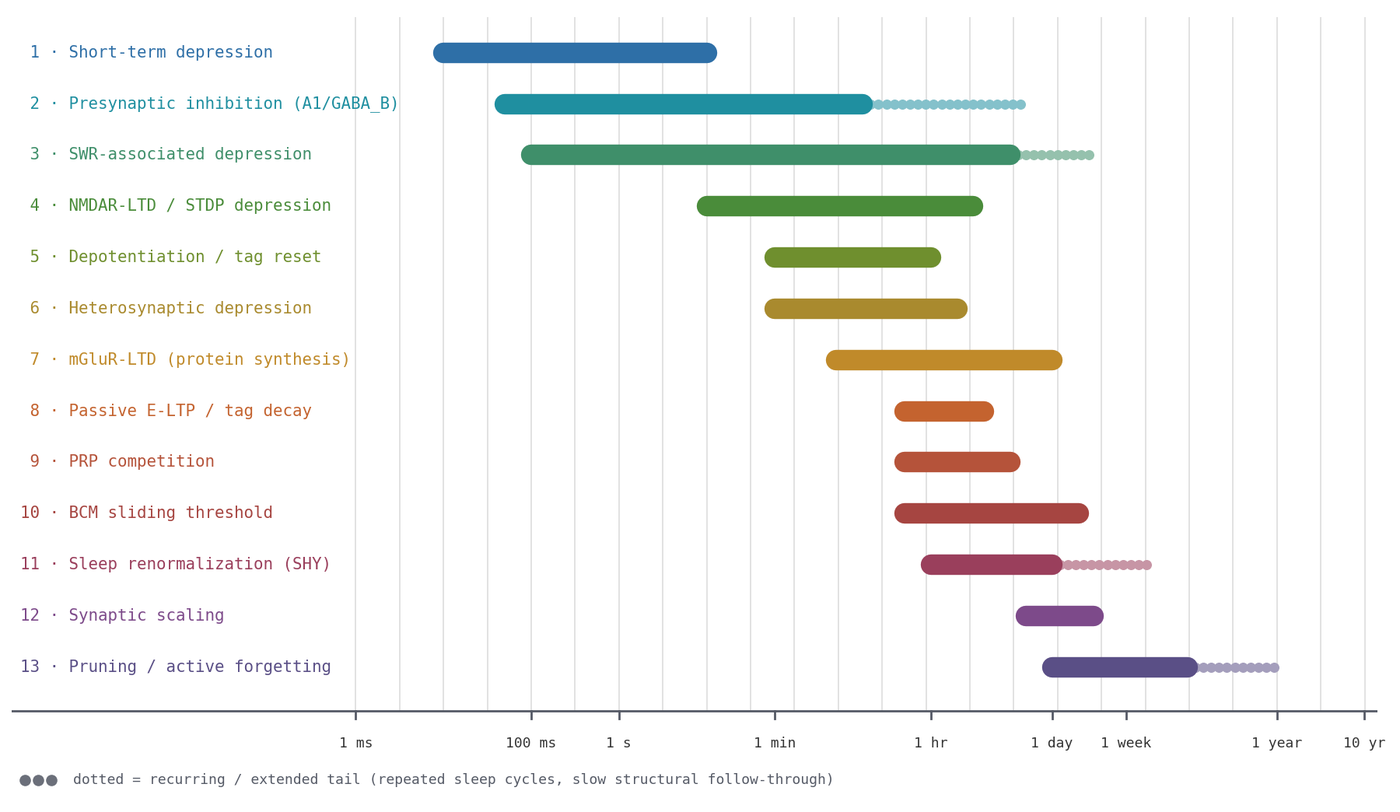
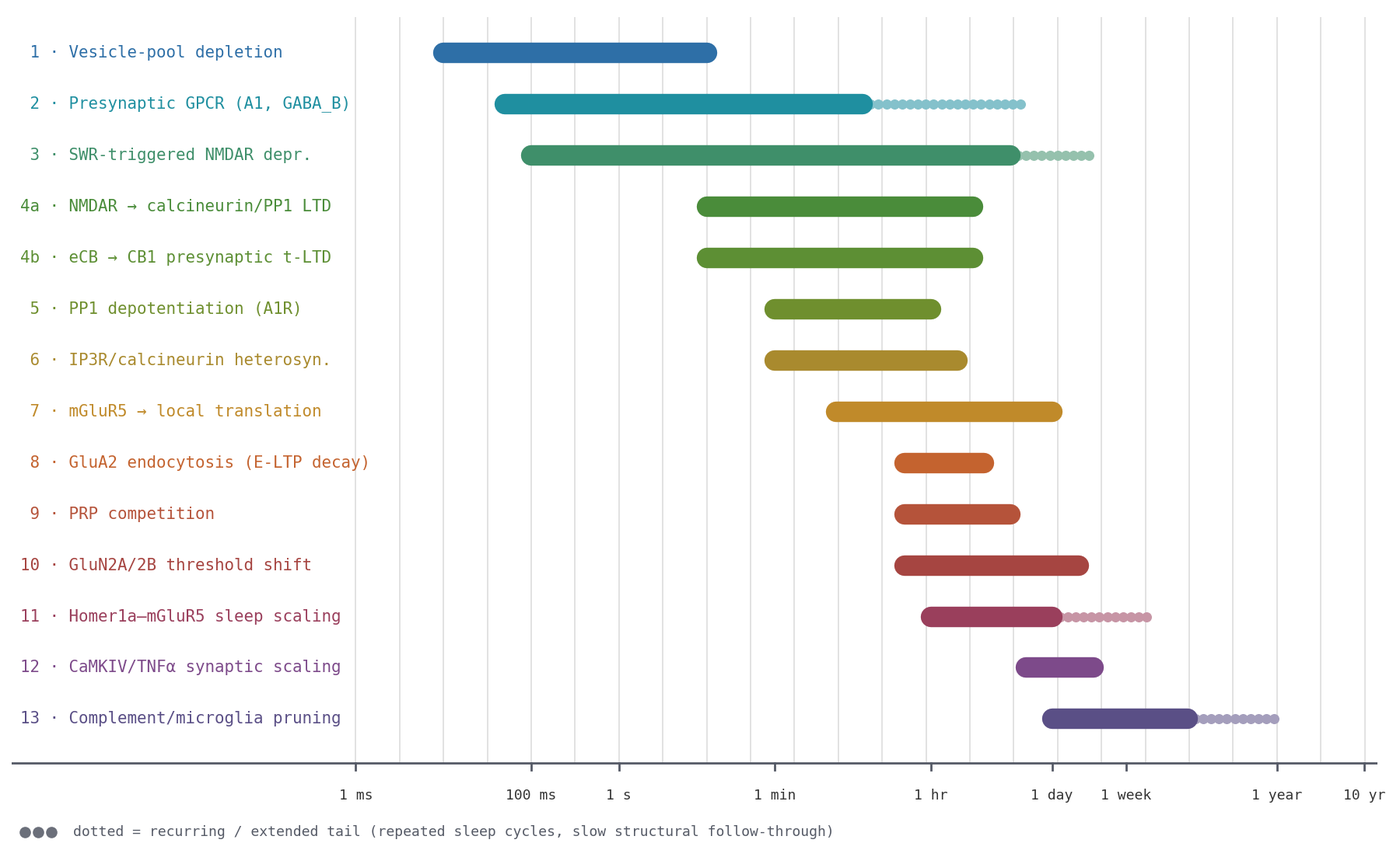
Restructure downscaling doc by molecular pathway
Each entry is now a molecular pathway with sensor, effector and site;
the plasticity rule (Hebbian, STDP, BCM, SHY, homeostasis) is a separate
column. Split NMDAR-LTD/STDP depression into postsynaptic NMDAR->PP1 LTD
(4a) and presynaptic eCB->CB1 t-LTD (4b), noting that presynaptic t-LTD
at mouse CA3->CA1 fades by about the fourth postnatal week. Added
verified refs: Sjostrom 2003, Andrade-Talavera 2016, Huang 1999, Lee
2000, Ibata 2008. Figure relabelled with pathway names and ids.

Changed region(s): [[0.0, 0.0307, 0.9956, 0.9195], [0.0, 0.9502, 0.5911, 0.9808]]

diff --git a/figures/make_downscaling_timescale_axis.py b/figures/make_downscaling_timescale_axis.py
@@ -12,24 +12,26 @@ import numpy as np
 
 MS, S, MIN, HR, DAY, WK, YR = 1e-3, 1.0, 60.0, 3600.0, 86400.0, 604800.0, 3.156e7
 
-# (label, start_s, end_s, tail_end_s or None, colour)
-# Rows are drawn in order of onset (start_s), ties broken by end_s, so the
+# (id, molecular pathway, start_s, end_s, tail_end_s or None, colour)
+# Ids match the sections of hippocampal_downscaling_mechanisms.md. Rows are
+# drawn in order of onset (start_s), ties broken by end_s then id, so the
 # bars form a staircase like figures/timescale_axis.png.
 MECHANISMS = sorted([
-    ("Short-term depression",          10 * MS, 10 * S,  None,     "#2e6fa7"),
-    ("Presynaptic inhibition (A1/GABA_B)", 50 * MS, 10 * MIN, 12 * HR, "#1f8fa0"),
-    ("SWR-associated depression",      100 * MS, 8 * HR, 3 * DAY,  "#3f8f6a"),
-    ("NMDAR-LTD / STDP depression",    10 * S,  3 * HR,  None,     "#4a8c3a"),
-    ("Depotentiation / tag reset",     1 * MIN, 1 * HR,  None,     "#6f8f2e"),
-    ("Heterosynaptic depression",      1 * MIN, 2 * HR,  None,     "#a98a2e"),
-    ("mGluR-LTD (protein synthesis)",  5 * MIN, 1 * DAY, None,     "#c08a2a"),
-    ("Passive E-LTP / tag decay",      30 * MIN, 4 * HR, None,     "#c4632f"),
-    ("PRP competition",                30 * MIN, 8 * HR, None,     "#b5533a"),
-    ("BCM sliding threshold",          30 * MIN, 2 * DAY, None,    "#a64541"),
-    ("Sleep renormalization (SHY)",    1 * HR,  1 * DAY, 2 * WK,   "#9a3f5c"),
-    ("Synaptic scaling",               12 * HR, 3 * DAY, None,     "#7d4a8a"),
-    ("Pruning / active forgetting",    1 * DAY, 5 * WK,  1 * YR,   "#5a4f86"),
-], key=lambda m: (m[1], m[2]))
+    ("1",  "Vesicle-pool depletion",        10 * MS, 10 * S,  None,     "#2e6fa7"),
+    ("2",  "Presynaptic GPCR (A1, GABA_B)", 50 * MS, 10 * MIN, 12 * HR, "#1f8fa0"),
+    ("3",  "SWR-triggered NMDAR depr.",     100 * MS, 8 * HR, 3 * DAY,  "#3f8f6a"),
+    ("4a", "NMDAR → calcineurin/PP1 LTD",   10 * S,  3 * HR,  None,     "#4a8c3a"),
+    ("4b", "eCB → CB1 presynaptic t-LTD",   10 * S,  3 * HR,  None,     "#5d8f34"),
+    ("5",  "PP1 depotentiation (A1R)",      1 * MIN, 1 * HR,  None,     "#6f8f2e"),
+    ("6",  "IP3R/calcineurin heterosyn.",   1 * MIN, 2 * HR,  None,     "#a98a2e"),
+    ("7",  "mGluR5 → local translation",    5 * MIN, 1 * DAY, None,     "#c08a2a"),
+    ("8",  "GluA2 endocytosis (E-LTP decay)", 30 * MIN, 4 * HR, None,   "#c4632f"),
+    ("9",  "PRP competition",               30 * MIN, 8 * HR, None,     "#b5533a"),
+    ("10", "GluN2A/2B threshold shift",     30 * MIN, 2 * DAY, None,    "#a64541"),
+    ("11", "Homer1a–mGluR5 sleep scaling",  1 * HR,  1 * DAY, 2 * WK,   "#9a3f5c"),
+    ("12", "CaMKIV/TNFα synaptic scaling",  12 * HR, 3 * DAY, None,     "#7d4a8a"),
+    ("13", "Complement/microglia pruning",  1 * DAY, 5 * WK,  1 * YR,   "#5a4f86"),
+], key=lambda m: (m[2], m[3], m[0]))
 
 TICKS = [(1 * MS, "1 ms"), (100 * MS, "100 ms"), (1 * S, "1 s"), (1 * MIN, "1 min"),
          (1 * HR, "1 hr"), (1 * DAY, "1 day"), (1 * WK, "1 week"),
@@ -51,14 +53,14 @@ def main(out=Path(__file__).with_name("downscaling_timescale_axis.png")):
     grid = np.arange(-3, np.log10(10 * YR) + 0.01, 0.5)
     ax.vlines(grid, 0.15, n + 0.7, color="#dddddd", lw=1.2, zorder=0)
 
-    for i, (label, a, b, tail, colour) in enumerate(MECHANISMS):
+    for i, (mid, label, a, b, tail, colour) in enumerate(MECHANISMS):
         y = n - i
         ax.plot([np.log10(a), np.log10(b)], [y, y], color=colour, lw=19,
                 solid_capstyle="round", zorder=3)
         if tail:
             xs = np.arange(np.log10(b) + 0.09, np.log10(tail), 0.09)
             ax.scatter(xs, np.full_like(xs, y), s=70, color=lighten(colour), zorder=2)
-        ax.text(label_x, y, f"{i + 1:>2} · {label}", color=colour, fontsize=15,
+        ax.text(label_x, y, f"{mid:>2} · {label}", color=colour, fontsize=15,
                 va="center", ha="left")
 
     ax.axhline(0.15, xmin=0.0, color="#555a66", lw=2)

diff --git a/hippocampal_downscaling_mechanisms.md b/hippocampal_downscaling_mechanisms.md
@@ -9,7 +9,24 @@ entry gives its timescale, its hook in the circuit model (model §2 tag/capture,
 synaptic-area "activity-dependent weight decay", model §2.1 `V_seg`, model §3 replay), and its primary
 literature.
 
-![Thirteen synaptic downscaling mechanisms on the same logarithmic time axis as Fig. 1 of the model document, from 1 ms to 10 years, ordered by onset so the bars form a descending staircase. Short-term depression, presynaptic inhibition and SWR-associated depression start in the millisecond range; Hebbian, heterosynaptic and tag-related depression start at seconds to minutes; BCM metaplasticity, sleep renormalization and synaptic scaling start at tens of minutes to hours; pruning and active forgetting start at days and extend to a year.](figures/downscaling_timescale_axis.png)
+**Levels of description.** Each entry is a *molecular pathway*. Plasticity rules (Hebbian,
+anti-Hebbian, STDP, BCM, homeostatic) are a separate, higher level. They say *which activity
+pattern* changes a weight, not *how*. One rule can be carried out by several pathways: STDP
+depression runs through 4a in some preparations and 4b in others. One pathway can also serve
+several rules: postsynaptic NMDAR → phosphatase signalling (4a) underlies both rate-dependent LTD
+and depotentiation (5). Every entry is therefore described on three levels:
+
+| Level | Question | Examples |
+|---|---|---|
+| Sensor (induction) | What detects the triggering activity or state? | Postsynaptic NMDAR Ca²⁺, group I mGluR → IP3/Ca²⁺ stores, presynaptic CB1 + NMDAR, somatic Ca²⁺ → CaMKIV |
+| Effector (expression) | What physically weakens the synapse? | Calcineurin/PP1 dephosphorylation of GluA1, clathrin-dependent AMPAR endocytosis, local translation of Arc/STEP, lower release probability, spine removal |
+| Rule it implements | Which activity pattern produces it? | Rate-dependent LTD, t-LTD (STDP), heterosynaptic normalization, BCM threshold, firing-rate homeostasis |
+
+Only the sensor and effector levels should be modelled as mechanisms (a dataclass plus a `build_*`
+function, per `CLAUDE.md`). The rule is what a mechanism should *reproduce* when driven with the
+corresponding protocol. It is an acceptance test, not a component.
+
+![Fourteen molecular downscaling pathways on the same logarithmic time axis as Fig. 1 of the model document, from 1 ms to 10 years, ordered by onset so the bars form a descending staircase. Vesicle depletion, presynaptic GPCR inhibition and SWR-triggered NMDAR depression start in the millisecond range; NMDAR/phosphatase LTD, endocannabinoid t-LTD, depotentiation, heterosynaptic and tag-related depression start at seconds to minutes; BCM metaplasticity, sleep renormalization and synaptic scaling start at tens of minutes to hours; pruning and active forgetting start at days and extend to a year.](figures/downscaling_timescale_axis.png)
 
 *Fig. D1. Downscaling mechanisms on the log time axis of model Fig. 1, ordered
 by onset (ties broken by end), as in Fig. 1. A bar's position marks onset and its
@@ -22,32 +39,37 @@ references below, not fitted values. Regenerate with
 bibliographic details of Norimoto 2018, González-Rueda 2018, Oh 2015, Kim & Tsien
 2008, Fonseca 2004, Royer & Paré 2003, Branco 2008, Migues 2016, Wang 2020,
 Li 2017, Sajikumar & Frey 2004 and Miyawaki & Diba 2016 have been checked against
-PubMed/PMC or publisher records (DOIs given). The rest are standard citations that
+PubMed/PMC or publisher records (DOIs given), as have Sjöström 2003, Andrade-Talavera 2016,
+Huang 1999, Lee 2000 and Ibata 2008. The rest are standard citations that
 have not been checked. Per `CLAUDE.md`, a parameter taken from any of these must
 be checked against the source and recorded in `params.py` with its recording
 conditions before use.
 
 ## Summary
 
-| # | Mechanism | Timescale | Spec hook | Class |
-|---|---|---|---|---|
-| 1 | Short-term depression | 10 ms–10 s | STP (S0–S3) | transient, presynaptic |
-| 2 | Presynaptic inhibition (adenosine A1, GABA_B, mGluR) | 50 ms–min (tonic: hours) | neuromodulatory input, implementation §7.2 | transient, presynaptic |
-| 3 | SWR-associated depression | ripple 100 ms, effect hours, recurs over days | model §3 replay | sleep / replay |
-| 4 | NMDAR-dependent LTD / STDP depression | induction s–min, expression hours | `g_Ca(V_seg)` low-Ca branch, model §2.1 | Hebbian |
-| 5 | Depotentiation / tag reset | window 1 min–1 hr | active reset of the model §2 tag | Hebbian, reversal |
-| 6 | Heterosynaptic depression | min–hours | per-segment conservation (`V_seg` unit) | competitive |
-| 7 | mGluR-LTD | min–1 day | PRP pool, model §2 | Hebbian, protein-synthesis dependent |
-| 8 | Passive E-LTP / tag decay | τ ≈ 1–4 hr | τ_tag decay in Fig. 2 | intrinsic decay |
-| 9 | PRP competition | 30 min–8 hr | capture threshold, model §2 | competitive |
-| 10 | BCM sliding threshold / metaplasticity | 30 min–days | LTD/LTP crossover of `g_Ca` | homeostatic |
-| 11 | Sleep renormalization (SHY) | hours, each sleep cycle | global downscaling between replay epochs | sleep / homeostatic |
-| 12 | Synaptic scaling | 12 hr–days | implementation §7.2 weight decay | homeostatic |
-| 13 | Pruning and active forgetting | days–months | removal of uncaptured traces | structural |
+| # | Molecular pathway | Timescale | Sensor | Effector | Site | Rule it implements | Model hook |
+|---|---|---|---|---|---|---|---|
+| 1 | Vesicle-pool depletion | 10 ms–10 s | presynaptic spike → VGCC Ca²⁺ | depletion of the readily releasable pool | pre | use-dependent (frequency) depression | STP (S0–S3), TM depression term |
+| 2 | Presynaptic GPCR inhibition | 50 ms–min (tonic: hours) | A1R, GABA_B, group II/III mGluR (G_i/o) | Gβγ inhibition of VGCCs and release machinery → lower P_r | pre | neuromodulatory / tonic gain control | scaling of TM `U`, implementation §7.2 |
+| 3 | SWR-triggered NMDAR-dependent depression | ripple 100 ms, effect hours, recurs over days | postsynaptic NMDAR during SWR bursts | AMPAR weakening (downstream not resolved) | post | state-gated depression of non-replayed inputs | model §3 replay |
+| 4a | NMDAR → calcineurin/PP1 LTD | induction s–min, expression hours | moderate postsynaptic NMDAR Ca²⁺ | calcineurin → PP1; GluA1-S845 dephosphorylation; AMPAR endocytosis | post | rate-dependent LTD (low-frequency) | low-Ca branch of `g_Ca(V_seg)`, model §2.1 |
+| 4b | Endocannabinoid → CB1 t-LTD | induction s–min, expression hours | postsynaptic mGluR + VGCC Ca²⁺ → eCB; presynaptic CB1 + NMDAR coincidence | lower P_r (presynaptic calcineurin in CA1) | pre (induced post) | STDP depression (post-before-pre) | negative STDP lobe, implementation §7.5; scaling of `U` |
+| 5 | PP1-mediated depotentiation | window 1 min–1 hr | NMDAR Ca²⁺ + extracellular adenosine (A1R) after LFS | PP1 reverses CaMKII/PKA phosphorylation; AMPAR removal | post | time-limited reversal of recent LTP | active reset of the model §2 tag |
+| 6 | IP3R/calcineurin heterosynaptic depression | min–hours | neighbour potentiation → group I mGluR, IP3R Ca²⁺ release | calcineurin → shrinkage of inactive spines, AMPAR loss | post (unstimulated synapses) | heterosynaptic normalization | per-segment conservation (`V_seg` unit) |
+| 7 | mGluR5 → local-translation LTD | min–1 day | group I mGluR (G_q) | local translation of Arc, STEP, MAP1B → AMPAR endocytosis | post | homosynaptic, protein-synthesis-dependent LTD | PRP pool, model §2 |
+| 8 | Constitutive GluA2 endocytosis (E-LTP decay) | τ ≈ 1–4 hr | none: absence of capture | removal of inserted GluA2-AMPARs | post | decay of unconsolidated LTP | τ_tag decay in Fig. 2 |
+| 9 | PRP competition | 30 min–8 hr | none: finite resource | limited PRPs (synthesis vs proteasomal degradation) | post (cell-wide pool) | competition for consolidation | capture threshold, model §2 |
+| 10 | NMDAR subunit (GluN2A/2B) threshold shift | 30 min–days | integrated postsynaptic activity history | GluN2A/GluN2B ratio change | post | BCM sliding threshold | moves θ_p of `g_Ca` |
+| 11 | Homer1a–mGluR5 sleep scaling-down | hours, each sleep cycle | sleep state: falling noradrenaline, rising adenosine → Homer1a | ligand-independent mGluR5 signalling → GluA1 dephosphorylation, AMPAR removal | post | SHY (wake potentiation, sleep renormalization) | global downscaling between replay epochs |
+| 12 | CaMKIV/TNFα synaptic scaling | 12 hr–days | somatic Ca²⁺ → CaMKIV → transcription; glial TNFα | multiplicative change in synaptic AMPARs (Arc-dependent endocytosis) | post (and pre: P_r) | firing-rate homeostasis | implementation §7.2 weight decay |
+| 13 | Complement/microglial pruning; Rac1/cofilin forgetting | days–months | C1q/C3 deposition at weak synapses | microglial CR3 phagocytosis; actin disassembly | whole synapse | structural forgetting | removal of uncaptured traces |
 
 ---
 
-## 1. Short-term depression
+## 1. Vesicle-pool depletion (short-term depression)
+
+**Pathway.** Presynaptic spike → VGCC Ca²⁺ → release that depletes the readily releasable pool
+(presynaptic). **Rule:** use-dependent, frequency-dependent depression.
 
 **Mechanism.** Each spike depletes the readily releasable vesicle pool, so later
 EPSCs in a train shrink until the pool recovers (τ_rec ~ 100 ms–1 s). Release-site
@@ -63,7 +85,11 @@ bursts, including the compressed sequences of SWR replay.
 - Zucker RS, Regehr WG (2002). Short-term synaptic plasticity. *Annu Rev Physiol* 64:355–405.
 - Dobrunz LE, Stevens CF (1997). Heterogeneity of release probability, facilitation, and depletion at central synapses. *Neuron* 18:995–1008.
 
-## 2. Presynaptic inhibition (adenosine A1, GABA_B, group II/III mGluR)
+## 2. Presynaptic GPCR inhibition (adenosine A1, GABA_B, group II/III mGluR)
+
+**Pathway.** G_i/o-coupled receptors → Gβγ inhibition of N/P/Q-type VGCCs and of the release
+machinery → lower release probability (presynaptic). **Rule:** neuromodulatory or tonic gain
+control. This is state-dependent, not activity-pattern-dependent.
 
 **Mechanism.** G-protein-coupled presynaptic receptors lower release probability.
 Extracellular adenosine builds up with prolonged wake and metabolic load, which
@@ -78,7 +104,13 @@ Expressed as a scaling of the TM parameter U.
 - Porkka-Heiskanen T et al. (1997). Adenosine: a mediator of the sleep-inducing effects of prolonged wakefulness. *Science* 276:1265–1268.
 - Davies CH, Starkey SJ, Pozza MF, Collingridge GL (1991). GABA_B autoreceptors regulate the induction of LTP. *Nature* 349:609–611.
 
-## 3. SWR-associated depression
+## 3. SWR-triggered NMDAR-dependent depression
+
+**Pathway.** Synchronous CA3 bursts during a ripple → postsynaptic NMDAR activation in CA1 →
+long-lasting, pathway-specific AMPAR weakening (postsynaptic). Norimoto et al. establish the
+NMDAR dependence but not the downstream effector. **Rule:** state-gated depression during
+offline (slow-wave) states. A SWR is a network *event* that engages this pathway. It is not
+itself a molecular mechanism.
 
 **Mechanism.** In mouse hippocampus, sharp-wave ripples during slow-wave states
 trigger long-lasting, NMDAR-dependent and pathway-specific synaptic depression.
@@ -100,28 +132,66 @@ potentiation.
 - González-Rueda A, Pedrosa V, Feord RC, Clopath C, Paulsen O (2018). Activity-dependent downscaling of subthreshold synaptic inputs during slow-wave-sleep-like activity in vivo. *Neuron* 97:1244–1252. doi:10.1016/j.neuron.2018.01.047 (cortex)
 - Lewis PA, Durrant SJ (2011). Overlapping memory replay during sleep builds cognitive schemata. *Trends Cogn Sci* 15:343–351.
 
-## 4. NMDAR-dependent LTD and STDP depression
+## 4a. Postsynaptic NMDAR → calcineurin/PP1 LTD
 
-**Mechanism.** Modest, prolonged postsynaptic Ca²⁺ influx through NMDARs (for
-example 1 Hz for 15 min) preferentially activates phosphatases (calcineurin, PP1)
-over CaMKII. AMPARs are then dephosphorylated and endocytosed. Under STDP, the same
-low-Ca regime is reached when the postsynaptic spike precedes the presynaptic one.
+**Pathway.** Moderate, prolonged postsynaptic Ca²⁺ influx through NMDARs → calcineurin →
+inhibitor-1 → PP1 → dephosphorylation of GluA1 (S845) → clathrin-dependent AMPAR endocytosis
+(postsynaptic). **Rule:** rate-dependent LTD (low-frequency stimulation). It is also the
+low-activity branch of BCM.
 
-**Spec hook.** model §2.1 `g_Ca(V_seg)`. Read with the calcium-control hypothesis, a single
-sigmoid becomes two thresholds: θ_d < Ca < θ_p gives depression and Ca > θ_p gives
-a tag. The ±20 ms STDP window in implementation §7.5 gains a negative lobe.
+**Mechanism.** Modest, prolonged Ca²⁺ influx (for example 1 Hz for 15 min) preferentially
+activates phosphatases over CaMKII. LTD lowers GluA1 phosphorylation at the PKA site S845,
+while LTP raises phosphorylation at the CaMKII/PKC site S831 (Lee et al. 2000). Which site
+changes depends on the synapse's history. The calcium-control hypothesis (Lisman 1989)
+reduces this to two Ca²⁺ thresholds.
+
+**Spec hook.** model §2.1 `g_Ca(V_seg)`. A single sigmoid becomes two thresholds:
+θ_d < Ca < θ_p gives depression and Ca > θ_p gives a tag. This entry supplies the *rate*
+dependence of depression only. The timing-dependent lobe is 4b.
 
 **References.**
 - Dudek SM, Bear MF (1992). Homosynaptic long-term depression in area CA1 of hippocampus and effects of NMDA receptor blockade. *PNAS* 89:4363–4367.
 - Mulkey RM, Malenka RC (1992). Mechanisms underlying induction of homosynaptic long-term depression in area CA1 of the hippocampus. *Neuron* 9:967–975.
 - Lisman J (1989). A mechanism for the Hebb and the anti-Hebb processes underlying learning and memory. *PNAS* 86:9574–9578.
 - Mulkey RM, Endo S, Shenolikar S, Malenka RC (1994). Involvement of a calcineurin/inhibitor-1 phosphatase cascade in hippocampal long-term depression. *Nature* 369:486–488.
-- Markram H, Lübke J, Frotscher M, Sakmann B (1997). Regulation of synaptic efficacy by coincidence of postsynaptic APs and EPSPs. *Science* 275:213–215.
-- Bi GQ, Poo MM (1998). Synaptic modifications in cultured hippocampal neurons: dependence on spike timing, synaptic strength, and postsynaptic cell type. *J Neurosci* 18:10464–10472.
+- Lee HK, Barbarosie M, Kameyama K, Bear MF, Huganir RL (2000). Regulation of distinct AMPA receptor phosphorylation sites during bidirectional synaptic plasticity. *Nature* 405:955–959. doi:10.1038/35016089
 - Shouval HZ, Bear MF, Cooper LN (2002). A unified model of NMDA receptor-dependent bidirectional synaptic plasticity. *PNAS* 99:10831–10836. (model)
 - Graupner M, Brunel N (2012). Calcium-based plasticity model explains sensitivity of synaptic changes to spike pattern, rate, and dendritic location. *PNAS* 109:3991–3996. (model)
 
-## 5. Depotentiation and tag reset
+## 4b. Endocannabinoid → CB1 presynaptic t-LTD
+
+**Pathway.** A postsynaptic spike before the presynaptic one → postsynaptic VGCC Ca²⁺ and group
+I mGluR → endocannabinoid synthesis → retrograde activation of presynaptic CB1, coincident with
+presynaptic NMDAR activation → lower release probability. In mouse CA3→CA1 this form needs
+presynaptic calcineurin (presynaptic expression, postsynaptic induction). **Rule:** the
+depression lobe of STDP (post-before-pre).
+
+**Mechanism.** STDP is a *protocol and rule*, not a pathway. The depression it produces is
+carried at least partly by a different pathway from 4a. In neocortical L5 it is presynaptic
+and needs coincident presynaptic NMDAR and CB1 activation (Sjöström et al. 2003). In mouse
+hippocampus, t-LTD at CA3→CA1 is presynaptic and needs presynaptic calcineurin. That
+presynaptic form fades by about the fourth postnatal week (Andrade-Talavera et al. 2016). So
+whether a strong STDP depression lobe exists at **adult** CA3→CA1 synapses is not
+established. A tinyHippo model of an adult healthy rodent should not assume it without a
+source.
+
+**Spec hook.** The negative lobe of the ±20 ms STDP window (implementation §7.5) belongs here,
+not to 4a. Because expression is presynaptic, it should be modelled as a reduction of TM `U`,
+not of the postsynaptic weight. It then interacts with STP (#1).
+
+**References.**
+- Markram H, Lübke J, Frotscher M, Sakmann B (1997). Regulation of synaptic efficacy by coincidence of postsynaptic APs and EPSPs. *Science* 275:213–215. (neocortex)
+- Bi GQ, Poo MM (1998). Synaptic modifications in cultured hippocampal neurons: dependence on spike timing, synaptic strength, and postsynaptic cell type. *J Neurosci* 18:10464–10472. (culture)
+- Sjöström PJ, Turrigiano GG, Nelson SB (2003). Neocortical LTD via coincident activation of presynaptic NMDA and cannabinoid receptors. *Neuron* 39:641–654. (neocortex L5)
+- Andrade-Talavera Y, Duque-Feria P, Paulsen O, Rodríguez-Moreno A (2016). Presynaptic spike timing-dependent long-term depression in the mouse hippocampus. *Cereb Cortex* 26:3637–3654. doi:10.1093/cercor/bhw172
+
+## 5. PP1-mediated depotentiation (tag reset)
+
+**Pathway.** LFS shortly after LTP → NMDAR Ca²⁺ plus extracellular adenosine acting on A1R →
+protein phosphatases (PP1) → reversal of CaMKII/PKA phosphorylation and removal of the newly
+inserted AMPARs (postsynaptic). **Rule:** time-limited reversal of recent potentiation. It
+shares its sensor and effector with 4a. What differs is the target: a synapse that was
+potentiated recently and is still labile.
 
 **Mechanism.** Low-frequency stimulation delivered shortly after LTP induction
 (within roughly 10–60 min) erases E-LTP. Once the potentiation has stabilized (late-LTP), the
@@ -138,10 +208,16 @@ abolish capture.
 - Staubli U, Lynch G (1990). Stable depression of potentiated synaptic responses in the hippocampus with 1–5 Hz stimulation. *Brain Res* 513:113–118.
 - Fujii S, Saito K, Miyakawa H, Ito K, Kato H (1991). Reversal of long-term potentiation (depotentiation) induced by tetanus stimulation of the input to CA1 neurons of guinea pig hippocampal slices. *Brain Res* 555:112–122.
 - O'Dell TJ, Kandel ER (1994). Low-frequency stimulation erases LTP through an NMDA receptor-mediated activation of protein phosphatases. *Learn Mem* 1:129–139.
+- Huang CC, Liang YC, Hsu KS (1999). A role for extracellular adenosine in time-dependent reversal of long-term potentiation by low-frequency stimulation at hippocampal CA1 synapses. *J Neurosci* 19:9728–9738.
 - Sajikumar S, Frey JU (2004). Resetting of "synaptic tags" is time- and activity-dependent in rat hippocampal CA1 in vitro. *Neuroscience* 129:503–507. doi:10.1016/j.neuroscience.2004.08.014
 - Sajikumar S, Frey JU (2004). Late-associativity, synaptic tagging, and the role of dopamine during LTP and LTD. *Neurobiol Learn Mem* 82:12–25.
 
-## 6. Heterosynaptic depression
+## 6. IP3R/calcineurin heterosynaptic depression
+
+**Pathway.** Potentiation of a cluster of neighbouring spines → group I mGluR and IP3R-mediated
+Ca²⁺ release from stores → calcineurin → shrinkage and AMPAR loss at nearby *inactive* spines
+(postsynaptic, at unstimulated synapses). **Rule:** heterosynaptic normalization, conserving
+weight within a segment.
 
 **Mechanism.** Potentiation of a cluster of synapses depresses or shrinks nearby
 *unstimulated* synapses on the same dendritic segment. In CA1 this needs
@@ -160,7 +236,13 @@ normalization rule.
 - Chistiakova M, Bannon NM, Bazhenov M, Volgushev M (2014). Heterosynaptic plasticity: multiple mechanisms and multiple roles. *Neuroscientist* 20:483–498.
 - El-Boustani S, Ip JPK, Breton-Provencher V, et al. (2018). Locally coordinated synaptic plasticity of visual cortex neurons in vivo. *Science* 360:1349–1354. (cortex)
 
-## 7. mGluR-dependent LTD
+## 7. mGluR5 → local-translation LTD
+
+**Pathway.** Group I mGluR (mGluR5, G_q) → rapid dendritic translation of Arc, STEP and MAP1B
+→ a sustained increase in AMPAR endocytosis rate (postsynaptic). **Rule:** homosynaptic,
+protein-synthesis-dependent LTD. It is not Hebbian in the strict sense. Presynaptic activity
+alone (paired-pulse LFS) or a group I agonist (DHPG) is enough, and no pre–post conjunction is
+needed.
 
 **Mechanism.** Group I mGluR activation (DHPG or paired-pulse LFS) triggers local
 dendritic translation of Arc, STEP and MAP1B, which drives AMPAR endocytosis. Like
@@ -175,7 +257,11 @@ potentiation for capture.
 - Huber KM, Kayser MS, Bear MF (2000). Role for rapid dendritic protein synthesis in hippocampal mGluR-dependent long-term depression. *Science* 288:1254–1257.
 - Waung MW, Pfeiffer BE, Nosyreva ED, Ronesi JA, Huber KM (2008). Rapid translation of Arc/Arg3.1 selectively mediates mGluR-dependent LTD through persistent increases in AMPAR endocytosis rate. *Neuron* 59:84–97.
 
-## 8. Passive E-LTP and tag decay
+## 8. Constitutive GluA2 endocytosis (passive E-LTP and tag decay)
+
+**Pathway.** No sensor is needed. Without capture, constitutive endocytosis of GluA2-containing
+AMPARs removes the extra receptors (postsynaptic). It is blocked by the GluA2-3Y interference
+peptide. **Rule:** decay of unconsolidated potentiation, the default fate of a trace.
 
 **Mechanism.** Without capture, E-LTP decays over 1–3 hr as inserted AMPARs are
 removed by constitutive, GluA2-dependent endocytosis. Even consolidated memories
@@ -194,6 +280,10 @@ relaxation of implementation §5.2. This is the baseline against which capture i
 
 ## 9. Competition for plasticity-related proteins
 
+**Pathway.** No sensor is needed: this is a finite resource. Protein synthesis and proteasomal
+degradation set the size of a cell-wide PRP pool, and tagged synapses draw on it. **Rule:**
+competition between inputs for consolidation.
+
 **Mechanism.** When protein synthesis is limited, potentiating one input at the
 expense of another makes the other pathway's established LTP decay. Synapses
 compete for a finite PRP pool, so capture at one site can leave another
@@ -207,7 +297,12 @@ than an independent per-synapse gate.
 - Fonseca R, Nägerl UV, Morris RGM, Bonhoeffer T (2004). Competing for memory: hippocampal LTP under regimes of reduced protein synthesis. *Neuron* 44:1011–1020. doi:10.1016/j.neuron.2004.10.033
 - Fonseca R, Vabulas RM, Hartl FU, Bonhoeffer T, Nägerl UV (2006). A balance of protein synthesis and proteasome-dependent degradation determines the maintenance of LTP. *Neuron* 52:239–245.
 
-## 10. BCM sliding threshold and metaplasticity
+## 10. NMDAR subunit (GluN2A/2B) threshold shift
+
+**Pathway.** Integrated postsynaptic activity over hours → change in the GluN2A/GluN2B ratio of
+synaptic NMDARs → altered Ca²⁺ kinetics for a given input → a shifted LTD/LTP crossover
+(postsynaptic). **Rule:** the BCM sliding threshold, i.e. metaplasticity. BCM is the *rule*,
+and the subunit switch is one molecular substrate of it.
 
 **Mechanism.** The LTD/LTP crossover point shifts with the recent history of
 postsynaptic activity. High prior activity raises the threshold, which favours
@@ -223,7 +318,13 @@ state per neuron or segment.
 - Abraham WC (2008). Metaplasticity: tuning synapses and networks for plasticity. *Nat Rev Neurosci* 9:387–399.
 - Philpot BD, Sekhar AK, Shouval HZ, Bear MF (2001). Visual experience and deprivation bidirectionally modify the composition and function of NMDA receptors in visual cortex. *Neuron* 29:157–169.
 
-## 11. Sleep-dependent renormalization (synaptic homeostasis hypothesis)
+## 11. Homer1a–mGluR5 sleep scaling-down
+
+**Pathway.** Sleep state (falling noradrenaline, rising adenosine) → Homer1a accumulates at
+synapses → ligand-independent mGluR5 signalling → GluA1 dephosphorylation and AMPAR removal
+(postsynaptic) (Diering et al. 2017). **Rule:** the synaptic homeostasis hypothesis (SHY): net
+potentiation during wake, renormalization during sleep. SHY is a systems-level *hypothesis*,
+and Homer1a–mGluR5 is the best-described pathway behind it.
 
 **Mechanism.** Wake brings net synaptic potentiation, and sleep, mainly NREM slow
 oscillations, brings net downscaling. This restores energy and space budgets and
@@ -243,7 +344,12 @@ consolidation loop. Each sleep cycle is a dotted repeat in Fig. D1.
 - Diering GH, Nirujogi RS, Roth RH, et al. (2017). Homer1a drives homeostatic scaling-down of excitatory synapses during sleep. *Science* 355:511–515.
 - Li W, Ma L, Yang G, Gan WB (2017). REM sleep selectively prunes and maintains new synapses in development and learning. *Nat Neurosci* 20:427–437. doi:10.1038/nn.4479 (motor cortex)
 
-## 12. Homeostatic synaptic scaling
+## 12. CaMKIV/TNFα homeostatic synaptic scaling
+
+**Pathway.** Sustained change in firing → somatic Ca²⁺ → CaMKIV → transcription (Ibata et al.
+2008), together with glial TNFα → a multiplicative change in synaptic AMPAR number. Scaling
+down uses Arc-dependent endocytosis (postsynaptic). In parallel, release probability is set by
+local dendritic activity (presynaptic). **Rule:** firing-rate homeostasis.
 
 **Mechanism.** Chronic changes in firing rate scale all of a neuron's excitatory
 synapses multiplicatively, which preserves their relative weights. Prolonged
@@ -261,6 +367,7 @@ so short runs must either state a compression factor or leave it out (see
 **References.**
 - Turrigiano GG, Leslie KR, Desai NS, Rutherford LC, Nelson SB (1998). Activity-dependent scaling of quantal amplitude in neocortical neurons. *Nature* 391:892–896.
 - Turrigiano GG (2008). The self-tuning neuron: synaptic scaling of excitatory synapses. *Cell* 135:422–435.
+- Ibata K, Sun Q, Turrigiano GG (2008). Rapid synaptic scaling induced by changes in postsynaptic firing. *Neuron* 57:819–826.
 - Kim J, Tsien RW (2008). Synapse-specific adaptations to inactivity in hippocampal circuits achieve homeostatic gain control while dampening network reverberation. *Neuron* 58:925–937. doi:10.1016/j.neuron.2008.05.009
 - Stellwagen D, Malenka RC (2006). Synaptic scaling mediated by glial TNF-α. *Nature* 440:1054–1059.
 - Shepherd JD, Rumbaugh G, Wu J, et al. (2006). Arc/Arg3.1 mediates homeostatic synaptic scaling of AMPA receptors. *Neuron* 52:475–484.
@@ -273,7 +380,12 @@ excitability scaling (Desai NS, Rutherford LC, Turrigiano GG 1999, *Nat Neurosci
 Gerstner W 2011, *Science* 334:1569–1573). Both lower output without depressing
 excitatory weights.
 
-## 13. Structural pruning and active forgetting
+## 13. Complement/microglial pruning and Rac1/cofilin forgetting
+
+**Pathway.** C1q/C3 complement deposited on weak or inactive synapses → phagocytosis by
+microglia through CR3. In parallel, Rac1 → cofilin-driven actin disassembly removes spine
+structure. Both remove the whole synapse. **Rule:** structural forgetting, the elimination of
+traces that were not maintained.
 
 **Mechanism.** On timescales of days to months, synapses are physically removed.
 In adult hippocampus, microglia eliminate synapses through complement tagging, and
@@ -312,7 +424,7 @@ Hebbian growth. Fast candidates are #3, #6 and #10.
 
 1. **#8 + #5.** Passive tag decay plus LFS-driven active reset. Fills model §2 directly
    and adds a second falsification arm.
-2. **#4 + #10.** Two-threshold `g_Ca` with a sliding θ_p. One extra state variable per segment.
+2. **#4a + #10.** Two-threshold `g_Ca` with a sliding θ_p. One extra state variable per segment.
 3. **#6.** Per-segment heterosynaptic conservation at `V_seg` granularity.
 4. **#3.** SWR-gated depression of non-replayed synapses. Needs ripple-epoch input,
    and any timescale compression factor must be stated.
